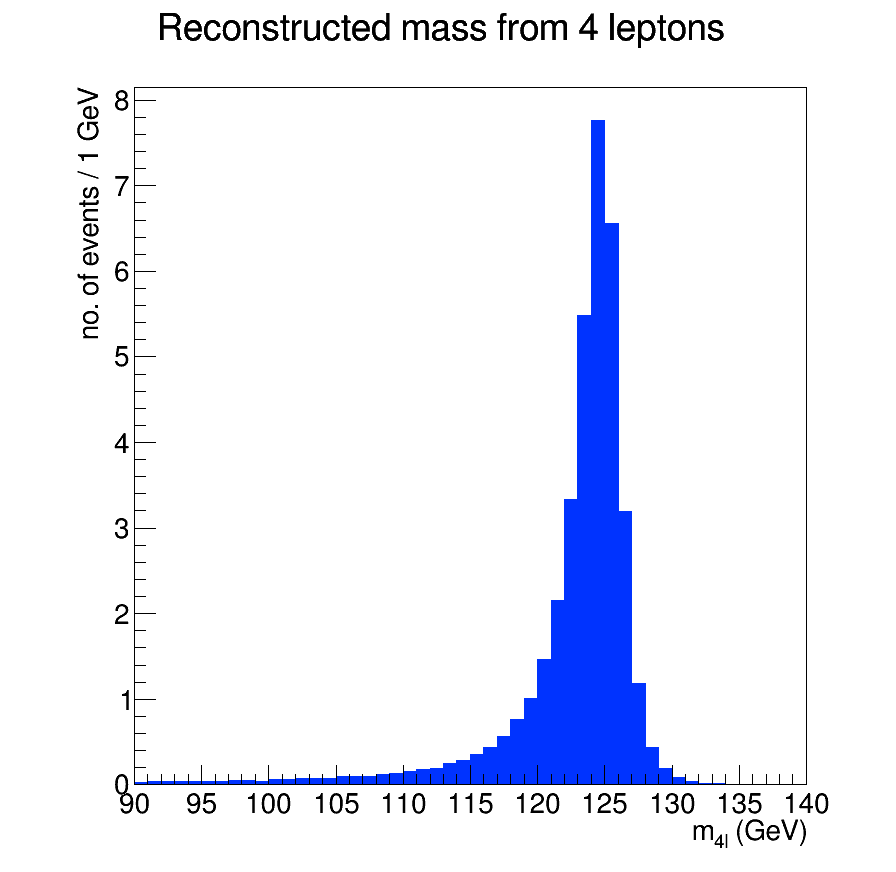
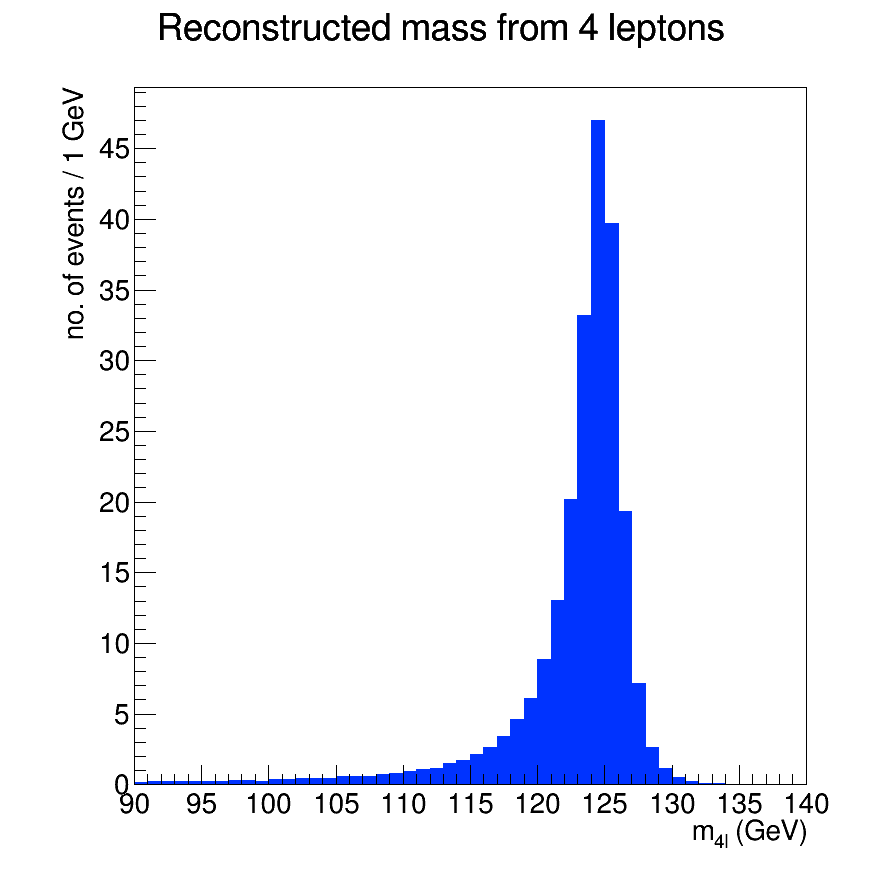
Vjezbe_6 task4 changed to get binContent, added integral

diff --git a/Vjezbe_6/Analyzer.cpp b/Vjezbe_6/Analyzer.cpp
@@ -38,9 +38,10 @@ void Analyzer::PlotHistogram()
 	TCanvas* c = new TCanvas("c", "c", 900, 900);
 	TH1F* histo1 = new TH1F("histo1", "Reconstructed mass from 4 leptons", 50, 90.0, 140.0);
 	
-	double w, wSum, L;
-	L = 137.0;
-	wSum = 6006820.0;
+	TFile f("/home/public/data/ggH125/ZZ4lAnalysis.root"); 
+	TH1F* histoCounter = (TH1F*)f.Get("ZZTree/Counters");
+	
+	double w, binContent;
 	
 	if (fChain == 0)
 		return;
@@ -64,7 +65,8 @@ void Analyzer::PlotHistogram()
 		*Z2 = *lep3 + *lep4;
 		*Higgs = *Z1 + *Z2;
 		
-		w = L * 1000 * xsec * overallEventWeight / wSum;
+		binContent = histoCounter->GetBinContent(40);
+		w = (137.0 * 1000.0 * xsec * overallEventWeight) / binContent;
 		
 		histo1->Fill(Higgs->M(),w);
 	}
@@ -80,4 +82,6 @@ void Analyzer::PlotHistogram()
 	histo1->Draw("HIST");
 	
 	c->SaveAs("Weighted.png");
+	
+	cout << histo1->Integral(1, 50) << endl;
 }
